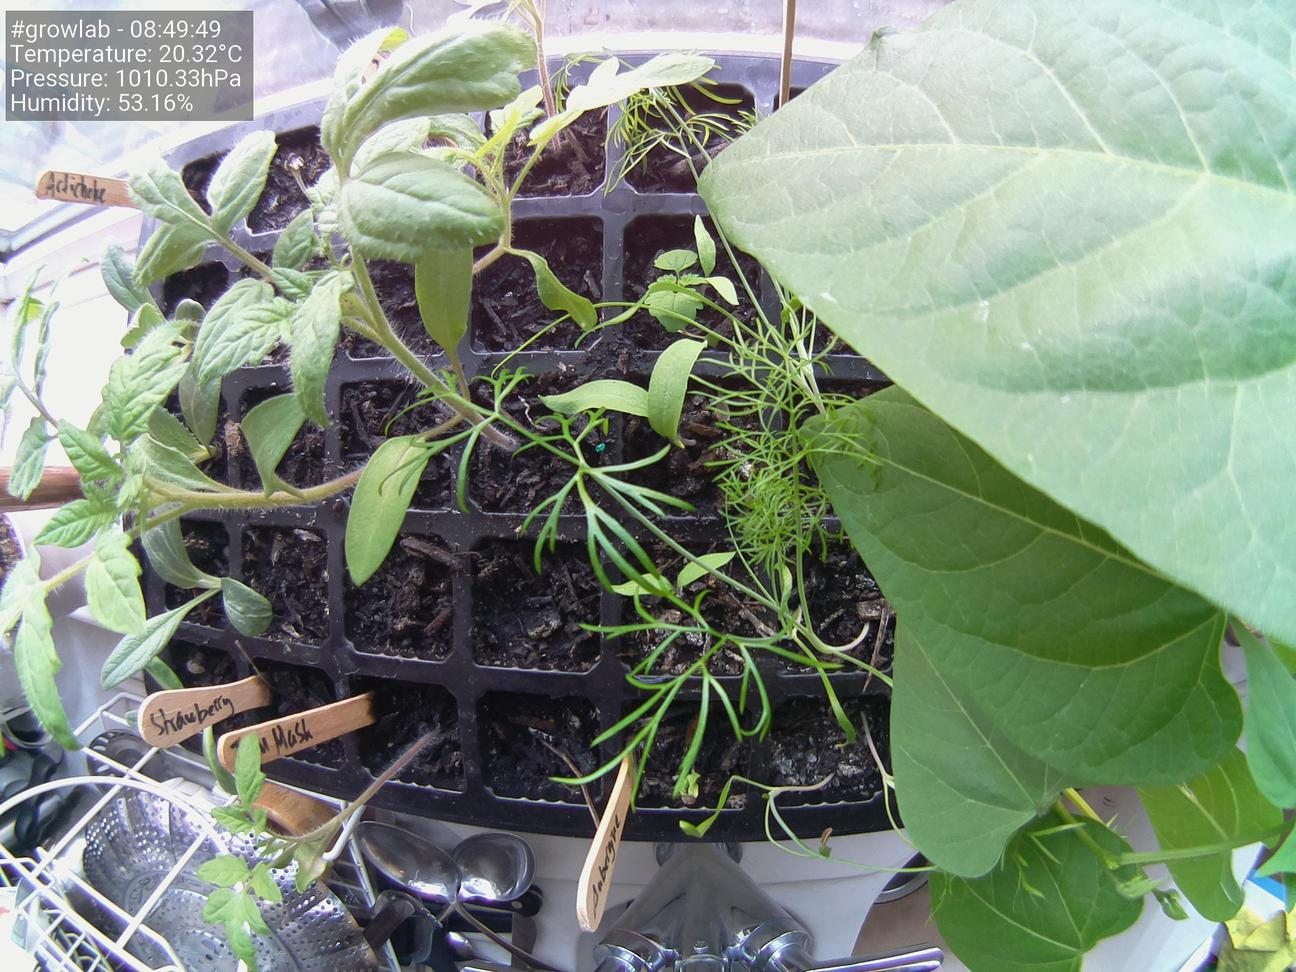
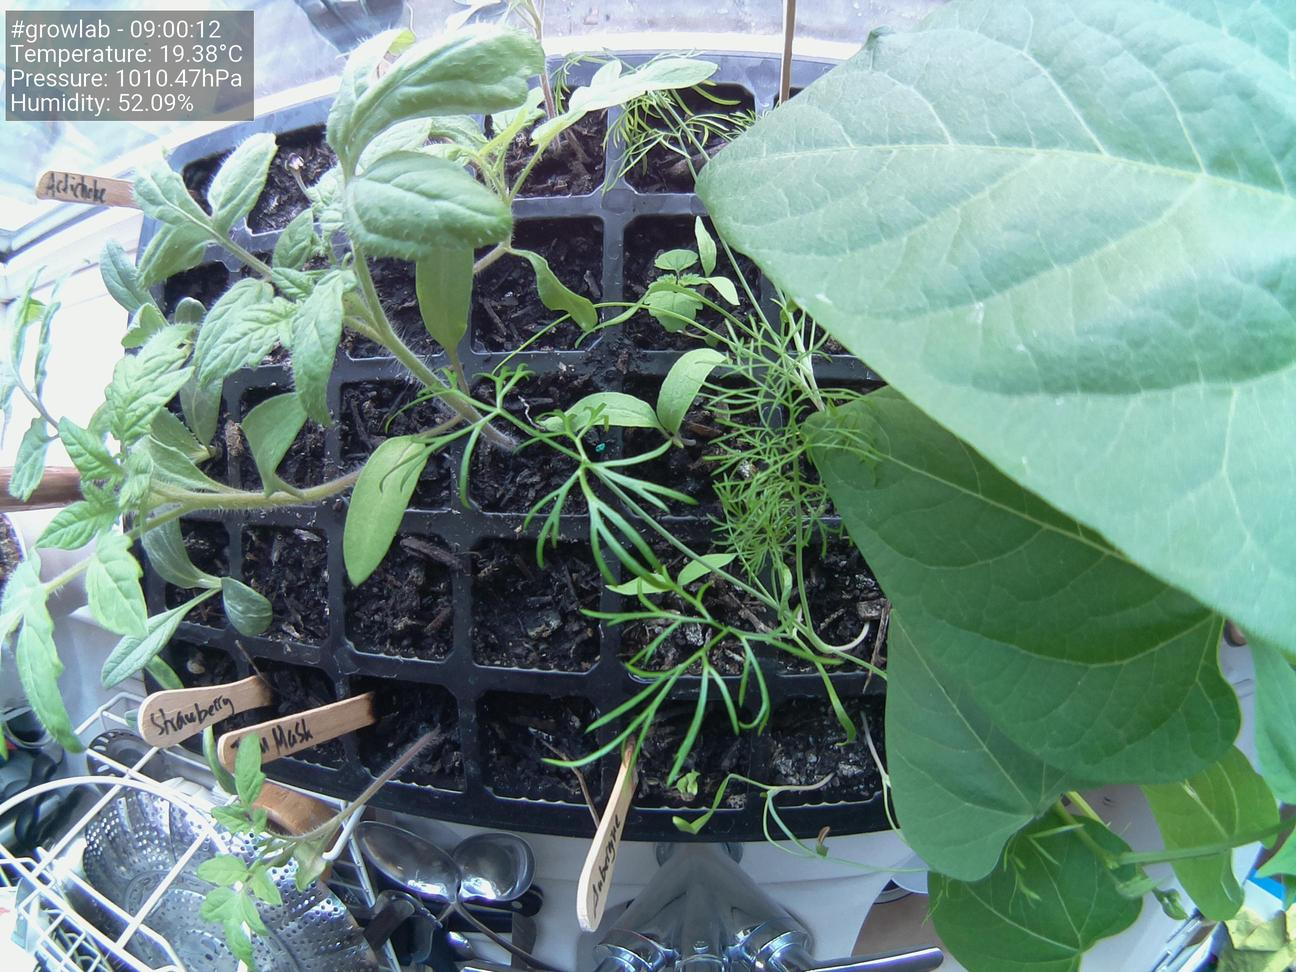
Update images at Thu 29 Apr 09:00:23 BST 2021

diff --git a/docs/index.html b/docs/index.html
@@ -38,19 +38,19 @@
                     <tbody>
                         <tr>
                             <td>Time</td>
-                            <td>08:49:49</td>
+                            <td>09:00:12</td>
                         </tr>
                         <tr>
                             <td>Temperature</td>
-                            <td>20.32°C</td>
+                            <td>19.38°C</td>
                         </tr>
                         <tr>
                             <td>Humidity</td>
-                            <td>53.16%</td>
+                            <td>52.09%</td>
                         </tr>
                         <tr>
                             <td>Pressure</td>
-                            <td>1010.33hPa</td>
+                            <td>1010.47hPa</td>
                         </tr>
                     </tbody>
                 </table>
@@ -58,7 +58,7 @@
 
                 <h5>Latest image</h5>
 		<div style="width: 85%;">
-	                <img class="figure-img img-fluid rounded" src="./preview.jpg?uid=1619682600.4759574">
+	                <img class="figure-img img-fluid rounded" src="./preview.jpg?uid=1619683223.0236108">
 		</div>
             </div>
         </div>
